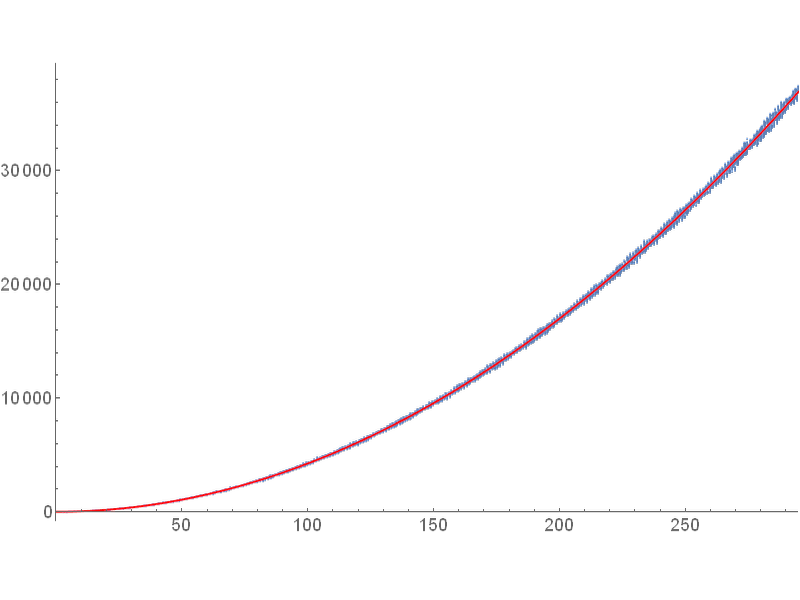
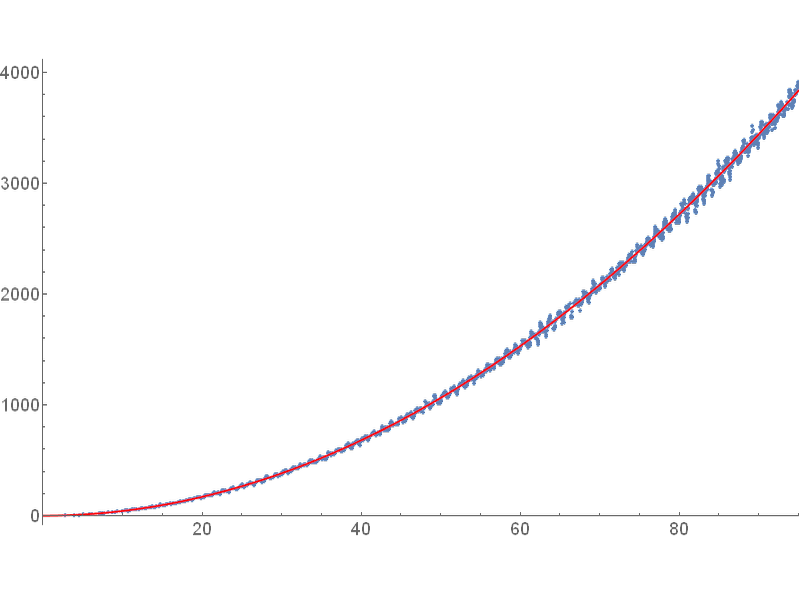
[d/t][feat] Увеличена детализация кривой dN/dx

diff --git a/doc/fragments/thermodynamics/contents.tex b/doc/fragments/thermodynamics/contents.tex
@@ -99,7 +99,7 @@
             \includegraphics[width=0.45\textwidth]{dndx_mag}}%
         \hspace{8pt}%
         %
-        \caption[]{Функция $\flatfrac{\Delta N}{\Delta \omega}$ (аргумент в относительных единицах), дискретная и непрерывная. Параметр $l_{max} = 300$. Размер окна~--- 5 относительных единиц. На \subref{fig:dndx_mag} увеличена область вблизи нуля. %
+        \caption[]{Функция $\flatfrac{\Delta N}{\Delta \omega}$ (аргумент в относительных единицах), дискретная и непрерывная. Параметр $l_{max} = 100$. Размер окна~--- 5 относительных единиц. На \subref{fig:dndx_mag} увеличена область вблизи нуля. %
         } %
         \label{fig:dndx}%
     \end{figure}
@@ -111,6 +111,6 @@
     \begin{figure}[h]
         \centering
         \includegraphics[width=0.5\textwidth]{plank}
-        \caption[]{Планковская кривая, практическая (дискретная, построенная на данных \autoref{fig:dndx}) и теоретическая (непрерывная). Единицы относительные.}
+        \caption[]{Планковская кривая, практическая (дискретная, построенная на данных \autoref{fig:dndx}; параметр $l_{max}$ увеличен до $300$) и теоретическая (непрерывная). Единицы относительные.}
         \label{fig:plank}
     \end{figure}
